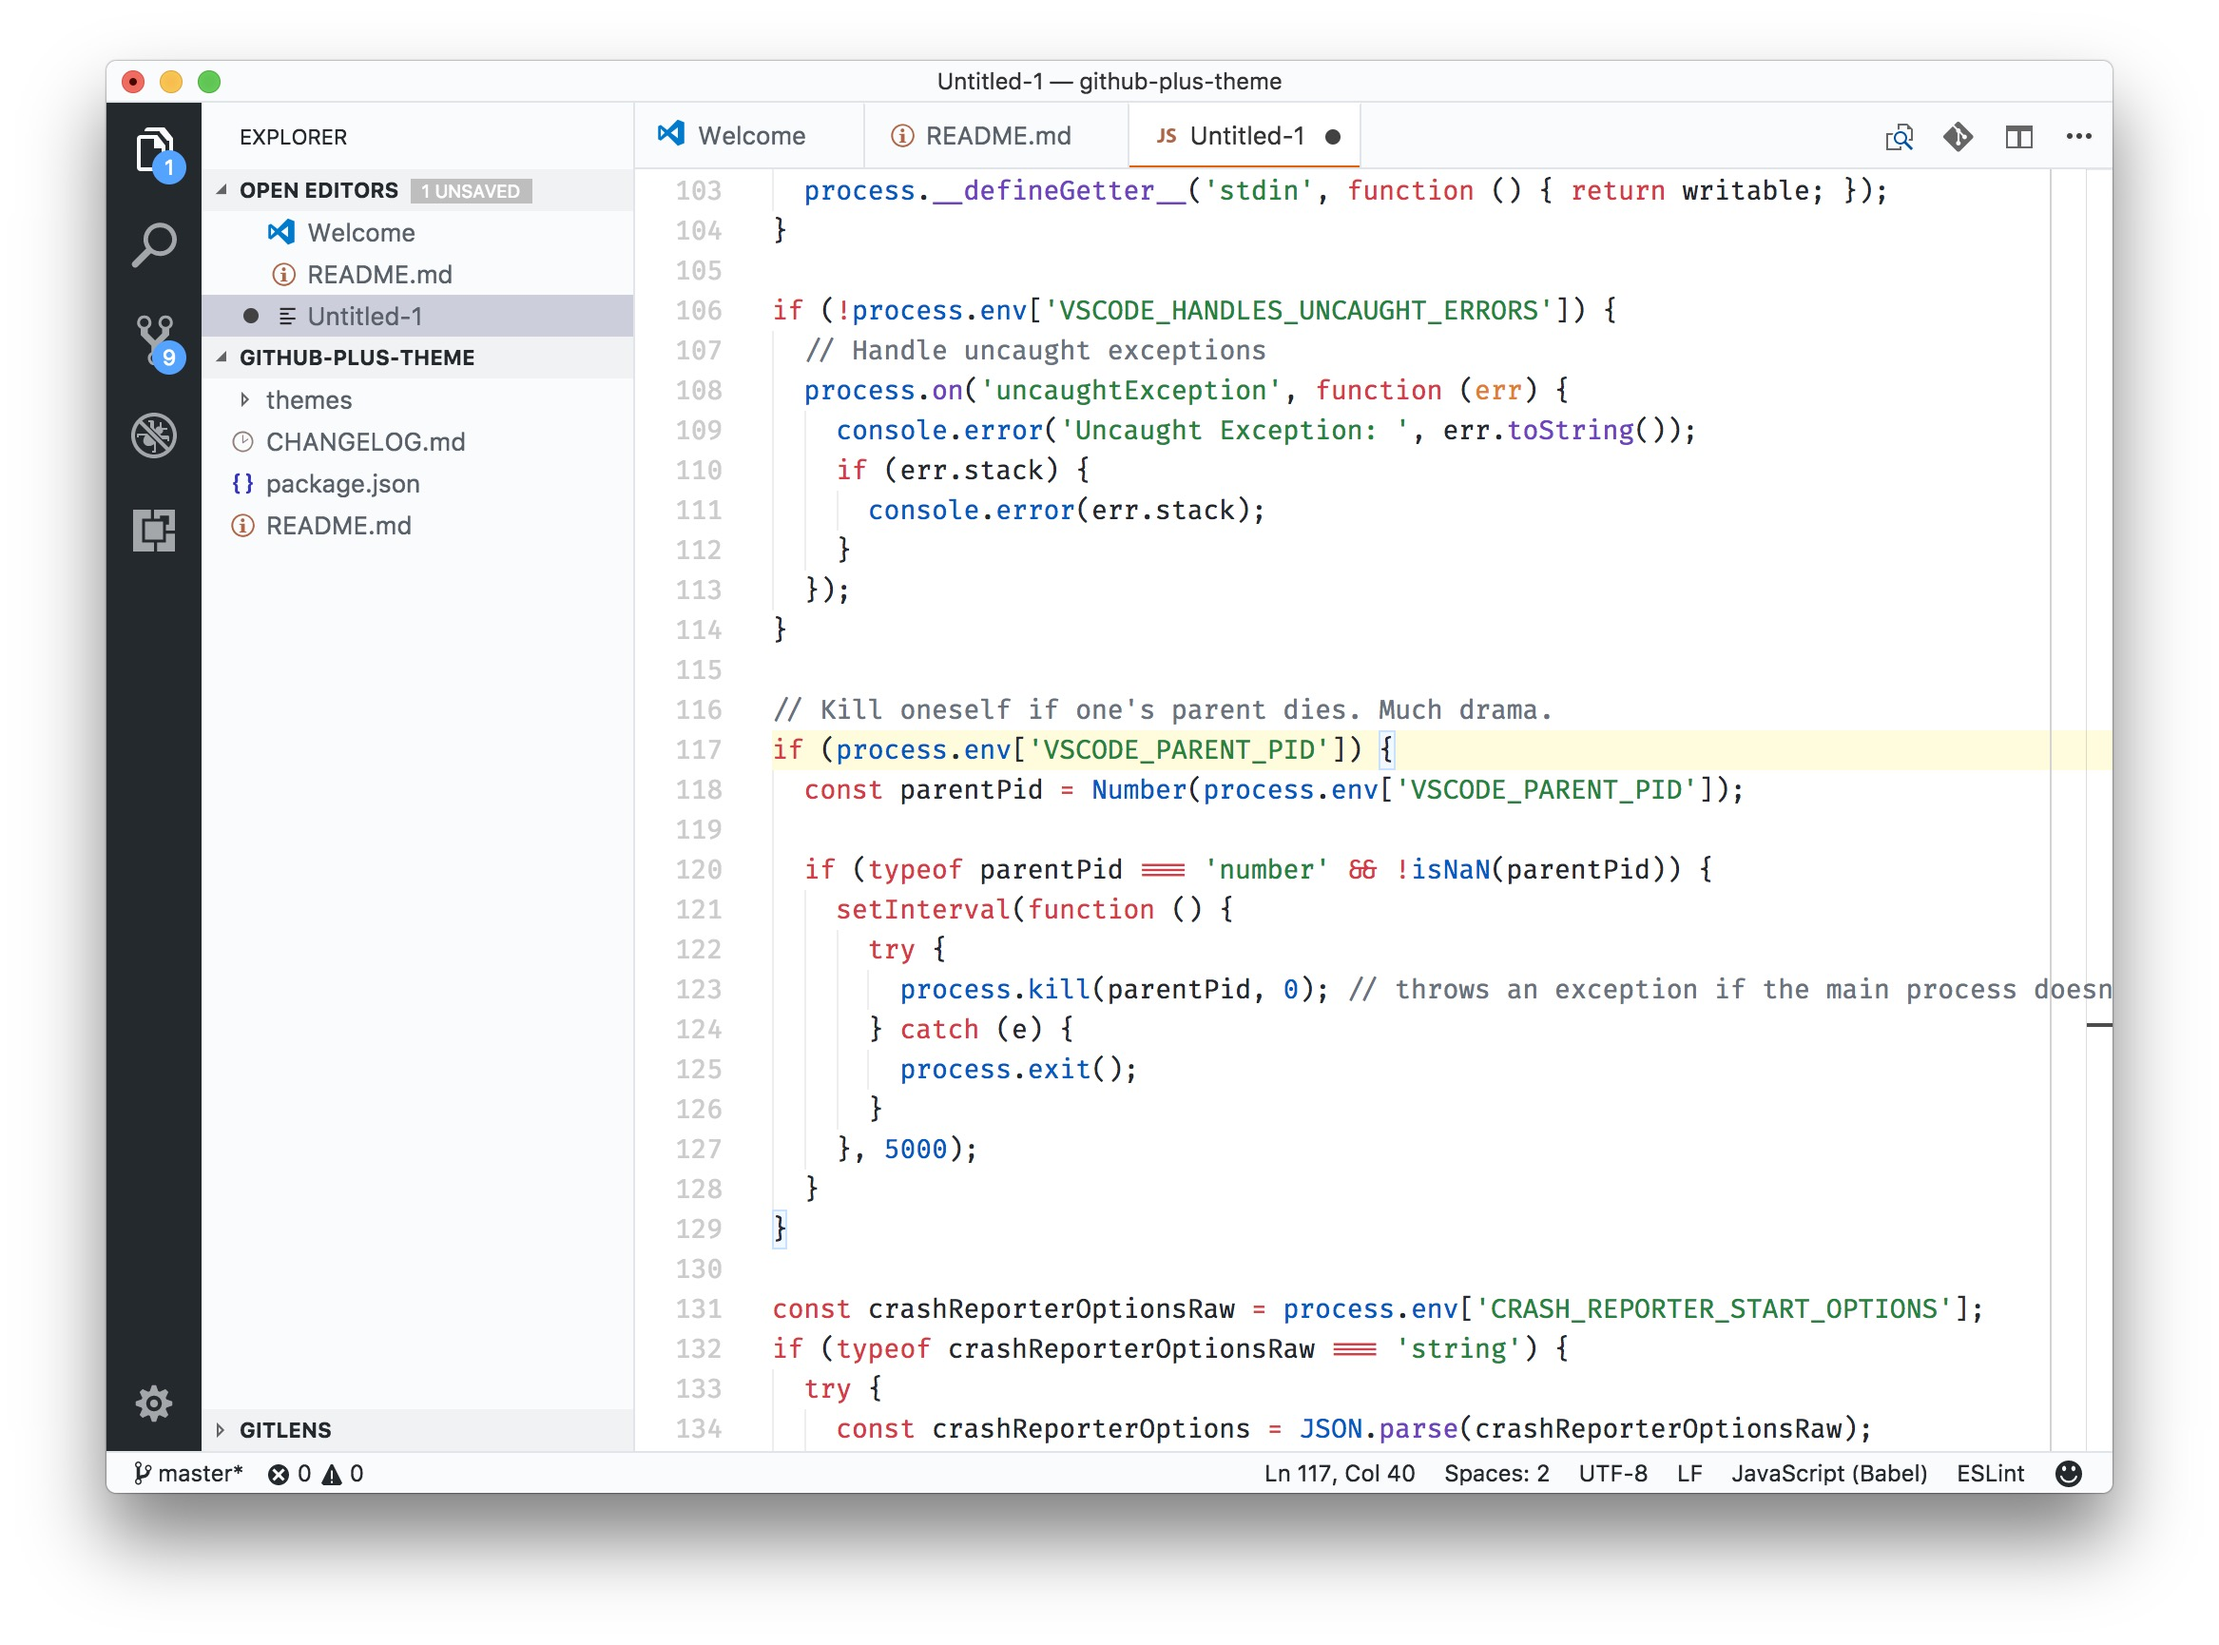
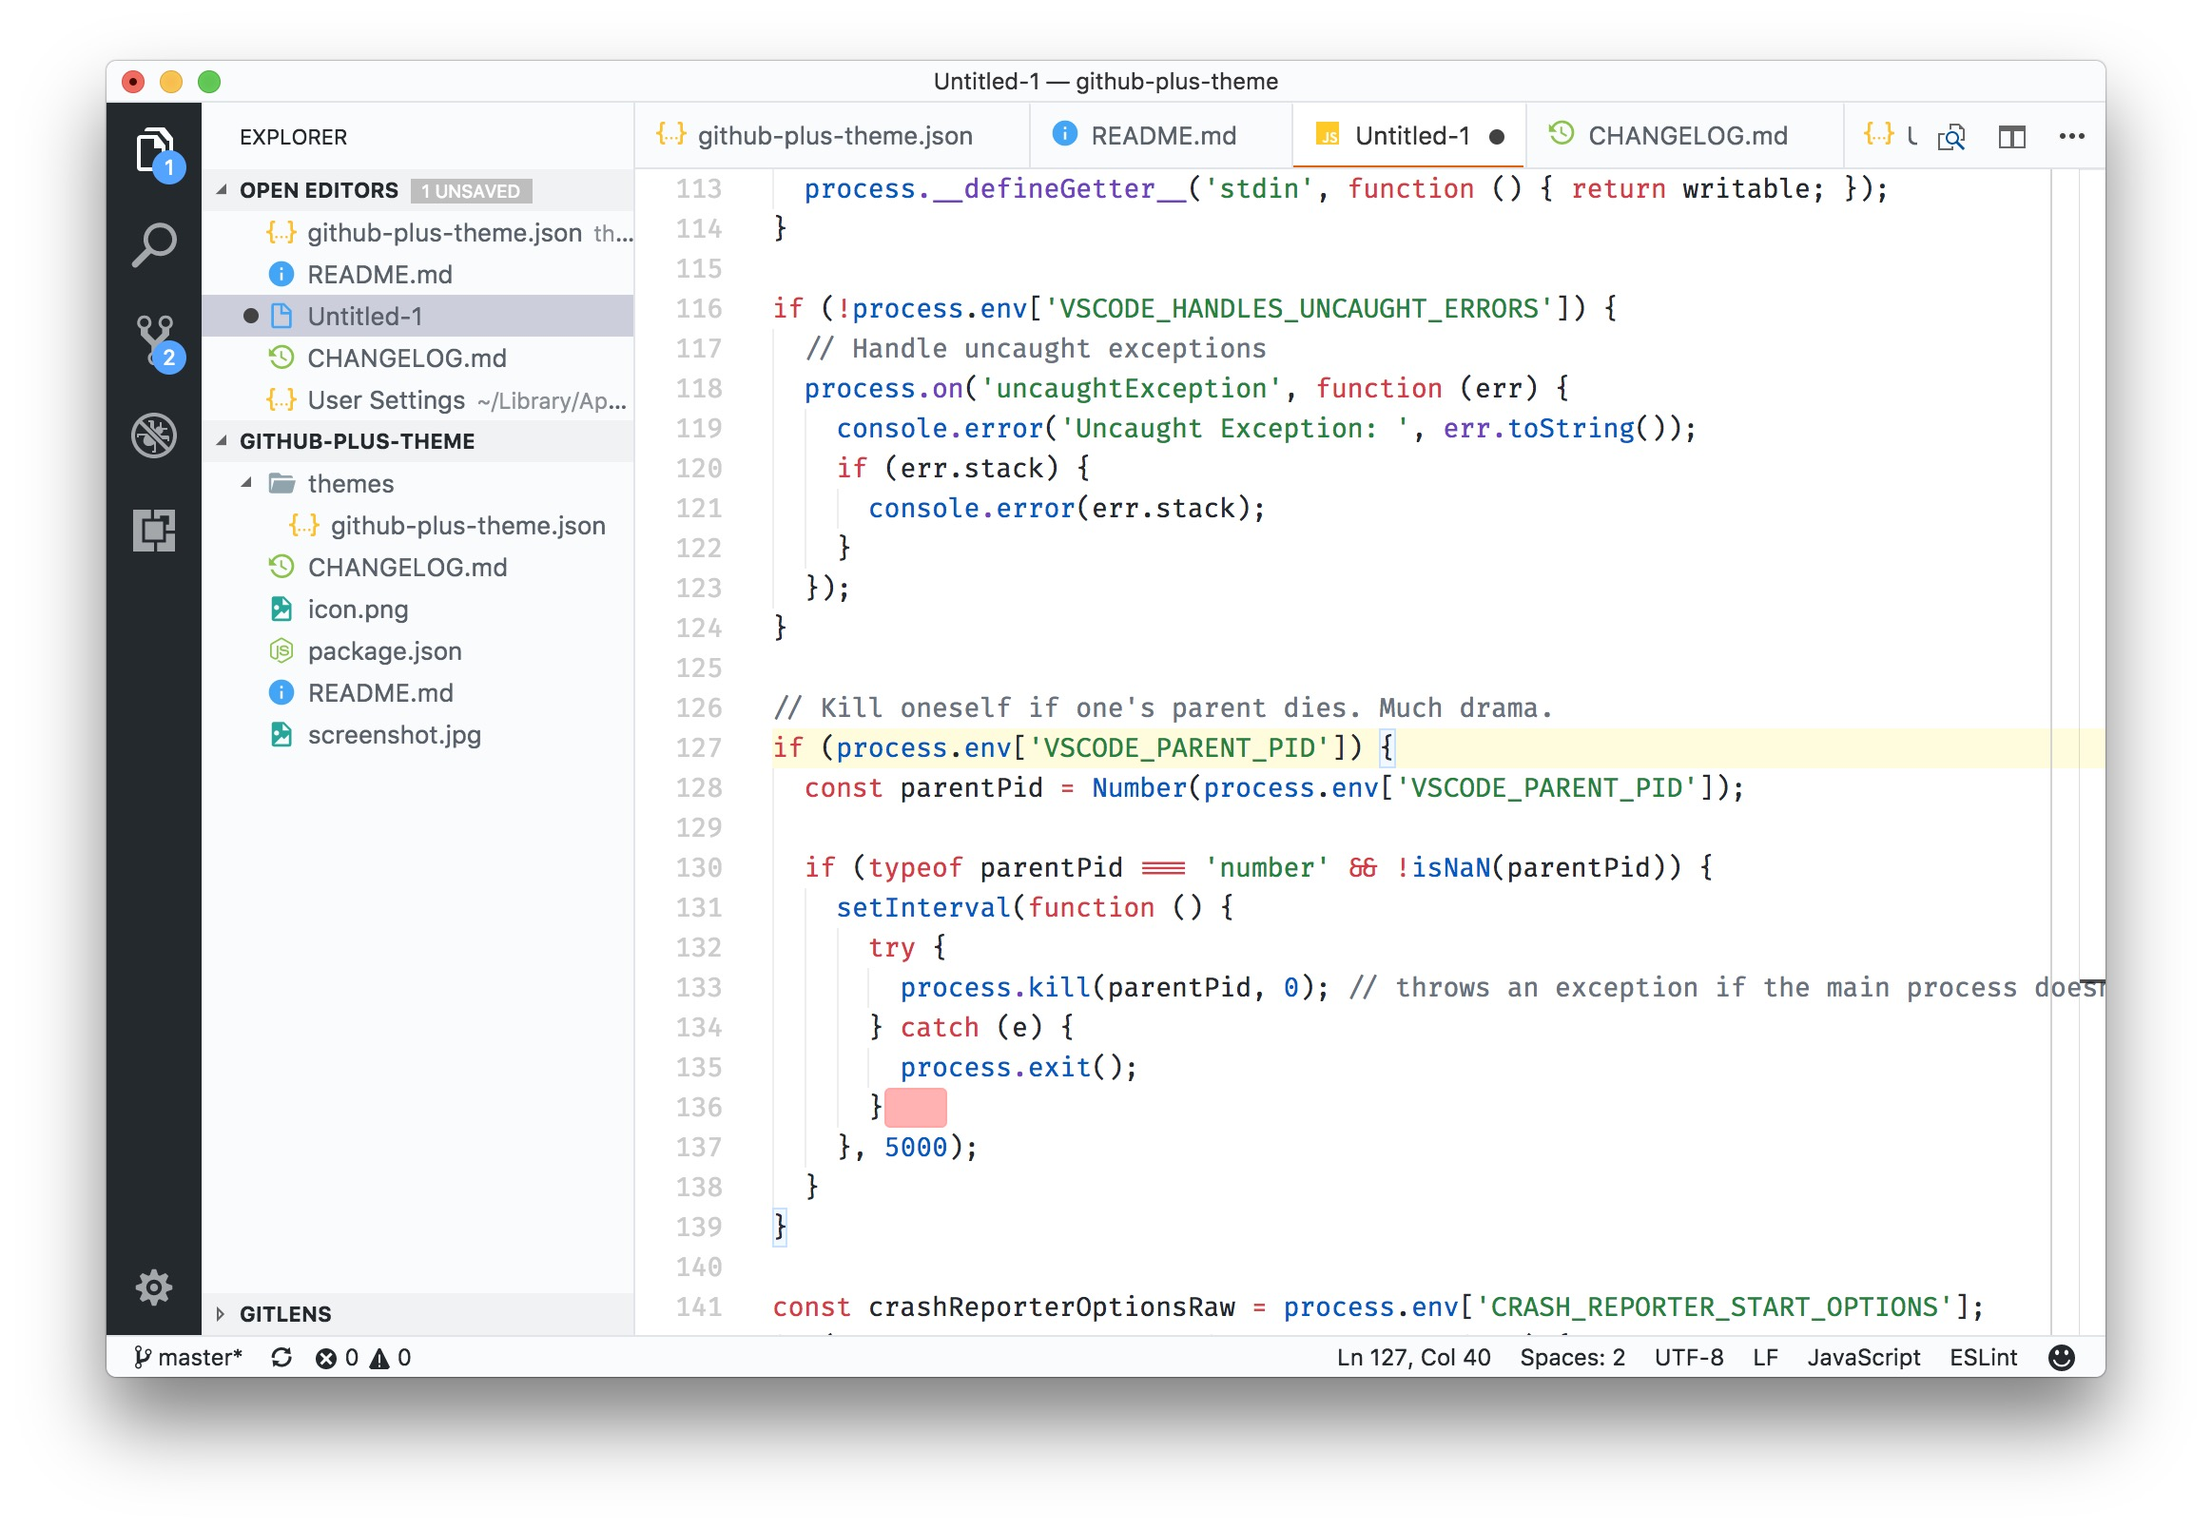
Update readme and screenshot

Changed region(s): [[0.031, 0.3731, 0.9596, 0.9328], [0.031, 0.0311, 0.9286, 0.4975]]

diff --git a/README.md b/README.md
@@ -4,3 +4,10 @@ A full [VSCode](https://code.visualstudio.com/) editor theme inspired by the
 GitHub color scheme.
 
 ![screenshot](./screenshot.jpg)
+
+Use [GitHub issues](https://github.com/thenikso/github-plus-theme) to report problems/requests (it might take a while to get feedback)
+
+## Extras
+
+- [Material Icon Theme](https://marketplace.visualstudio.com/items?itemName=PKief.material-icon-theme)
+  is the suggested icon theme

diff --git a/CHANGELOG.md b/CHANGELOG.md
@@ -1,6 +1,10 @@
 # Change Log
 All notable [changes](http://keepachangelog.com) to the "GitHub Plus Theme" extension will be documented in this file.
 
+## [1.1.2] - 2017-09-29
+### Changed
+- Improved README
+
 ## [1.1.1] - 2017-09-25
 ### Added
 - Project icon
